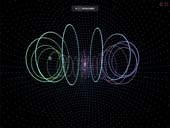
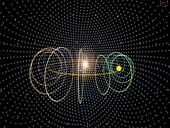
完善15号动态效果

diff --git a/js/e15.js b/js/e15.js
@@ -8,10 +8,12 @@ define(['analyser', 'util', 'renderer'], function (analyser, util, renderer) {
         centerParticles, centerGeometry, centerMaterial,
         littleParticles, littleGeometry, littleMaterial,
         outerParticles, outerGeometry, outerMaterial,
+        spotLight,lensFlare2,
+        textureFlare0 ,textureFlare3,flareColor,
         camera_a, camera_r, camera_d, camera_h, camera_f,
         i, h, sprite,
         rr = 600, r = 100,
-        cr = 200, lr = 20, oradius = 1000,
+        cr = 300, lr = 30, oradius = 1000,
         count = 1000, lcount = 500, ocount = 3000,
         langle = 0, lh = 0,
         data, len=20, total, avg,
@@ -40,7 +42,7 @@ define(['analyser', 'util', 'renderer'], function (analyser, util, renderer) {
         camera_a += avg * 0.00005;
         camera_a %= twoPI;
 
-        langle += avg * 0.0001;
+        langle += avg * 0.00007;
         langle %= twoPI;
 
         if (camera_d == camera_r)
@@ -71,7 +73,7 @@ define(['analyser', 'util', 'renderer'], function (analyser, util, renderer) {
             scene.remove(cubes[i]);
             geometries[i].dispose();
             materials[i].dispose();
-            geometry = new THREE.TorusGeometry(r + 0.8 * data[i * 5], 2, 4, 30, 2 * Math.PI);
+            geometry = new THREE.TorusGeometry(r + 0.8 * data[i * 5], 2, 4, 40, twoPI);
             material = new THREE.MeshBasicMaterial();
             material.color.setHSL(h + i / 20, 1.0, 0.8);
             cube = new THREE.Mesh(geometry, material);
@@ -83,10 +85,11 @@ define(['analyser', 'util', 'renderer'], function (analyser, util, renderer) {
             cube.rotation.set(Math.PI / 2, ang, 0);
         }
 
-        centerMaterial.color.setHSL(h, 1.0, 0.8);
+        centerMaterial.color.setHSL(h, 1.0, 1.0);
 
-        for (var vertex of centerGeometry.vertices) {
-            var t = vertex.postiondata[0];
+        for (i=0;i<centerGeometry.vertices.length;i++) {
+            var vertex = centerGeometry.vertices[i],
+                t = vertex.postiondata[0];
             if (t < cr)
                 t++;
             else
@@ -98,26 +101,31 @@ define(['analyser', 'util', 'renderer'], function (analyser, util, renderer) {
             vertex.postiondata[0] = t;
         }
 
-        if (Math.random() > 0.5)
-            lh++;
-        else
-            lh--;
+        lh += avg * 0.0005;
+        lh %= twoPI;
 
-        if (lh > r)
-            lh -= r;
+        var tt =rr+(lr+10)*Math.cos(lh);
 
-        littleParticles.position.set(rr * Math.cos(langle), rr * Math.sin(langle), lh);
+        littleParticles.position.set(tt * Math.cos(langle), tt * Math.sin(langle), (lr+10)*Math.sin(lh));
 
-        littleMaterial.color.setHSL(((h * 360 + 120) % 360) / 360, 1.0, 1.0);
+        littleParticles.rotateX(avg*0.0001);
+        littleParticles.rotateY(avg*0.0001);
+        littleParticles.rotateZ(avg*0.0001);
 
-        for (var vertex of littleGeometry.vertices) {
-            var alpha = Math.PI * 2 * Math.random(),
-                theta = Math.PI * Math.random(),
-                t = lr;
-            vertex.x = Math.sin(theta) * Math.cos(alpha) * t;
-            vertex.y = Math.sin(theta) * Math.sin(alpha) * t;
-            vertex.z = Math.cos(theta) * t;
-        }
+        //littleMaterial.color.setHSL(((h * 360 + 120) % 360) / 360, 1.0, 1.0);
+
+        // 取消空心小球的粒子运动
+        // for (i=0;i < littleGeometry.vertices.length;i++) {
+        //     var vertex = littleGeometry.vertices[i];
+        //     var alpha = Math.PI * 2 * Math.random(),
+        //         theta = Math.PI * Math.random(),
+        //         t = lr;
+        //     vertex.x = Math.sin(theta) * Math.cos(alpha) * t;
+        //     vertex.y = Math.sin(theta) * Math.sin(alpha) * t;
+        //     vertex.z = Math.cos(theta) * t;
+        // }
+
+        //outerMaterial.color.setHSL(((h * 360 + 120) % 360) / 360, 1.0, 1.0);
 
         renderer.render(scene, camera);
     }
@@ -148,11 +156,16 @@ define(['analyser', 'util', 'renderer'], function (analyser, util, renderer) {
         materials = [];
         cubes = [];
 
+
+        textureFlare0 = THREE.ImageUtils.loadTexture("img/lenflare0_alpha.png");
+        textureFlare3 = THREE.ImageUtils.loadTexture("img/lensflare1.png");
+        flareColor = new THREE.Color(0xffffff);
+
         // 绘制圆环
 
         for (i = 0; i < len; i++) {
             var ang = Math.PI * 2 * i / len;
-            geometry = new THREE.TorusGeometry(r, 2, 4, 30, 2 * Math.PI);
+            geometry = new THREE.TorusGeometry(r, 2, 4, 40, twoPI);
             material = new THREE.MeshBasicMaterial({color: 0x00ff00});
             cube = new THREE.Mesh(geometry, material);
             geometries[i] = geometry;
@@ -162,6 +175,17 @@ define(['analyser', 'util', 'renderer'], function (analyser, util, renderer) {
             cube.position.set(rr * Math.cos(ang), rr * Math.sin(ang), 0);
             cube.rotation.set(Math.PI / 2, ang, 0);
         }
+
+        // 中心发光体
+
+        spotLight = new THREE.SpotLight(0xffffff);
+        spotLight.position.set(0, 0, 0);
+        scene.add(spotLight);
+
+        var lensFlare = new THREE.LensFlare(textureFlare0, 350, 0, THREE.AdditiveBlending, flareColor);
+        lensFlare.add(textureFlare3, cr, 0, THREE.AdditiveBlending);
+        lensFlare.position = spotLight.position;
+        scene.add(lensFlare);
 
         //绘制内部“实心”小球
 
@@ -194,43 +218,62 @@ define(['analyser', 'util', 'renderer'], function (analyser, util, renderer) {
 
         // 绘制转动的“空心”小球
 
-        // littleGeometry = new THREE.SphereGeometry(lr,20,20);
-        // littleMaterial = new THREE.MeshBasicMaterial({ color: 0x550000 } );
-        // littleParticles = new THREE.Mesh(littleGeometry, littleMaterial);
-        // scene.add(littleParticles);
+        // 绘制小球的环绕中心
 
+        var torGeometry = new THREE.TorusGeometry(rr,2,4,100,twoPI),
+            torMaterial = new THREE.MeshBasicMaterial({color: 0xffcc00}),
+            torcube =new THREE.Mesh(torGeometry,torMaterial);
+        scene.add(torcube);
 
-        littleGeometry = new THREE.Geometry();
-        littleMaterial = new THREE.PointCloudMaterial({
-            size: 1,
-            sizeAttenuation: false,
-            transparent: true,
-            blending: THREE.AdditiveBlending,
-            depthTest: false,
+        littleGeometry = new THREE.SphereGeometry(lr,20,20);
+        // littleMaterial = new THREE.MeshBasicMaterial({
+        //     color: 0xcc0000,
+        //     depthTest:true
+        // });
+        littleMaterial = new THREE.MeshPhongMaterial({
+            opacity:1,
+            color: 0xff0000,
+            emissive: 0xffff00,
+            side: THREE.FrontSide,
+            shading: THREE.SmoothShading,
+            wireframe:true,
         });
-        littleMaterial.color.setHSL(0.3, 0.9, 0.5);
-        for (i = 0; i < lcount; i++) {
-            var vertex = new THREE.Vector3(),
-                alpha = Math.PI * 2 * Math.random(),
-                theta = Math.PI * Math.random(),
-                k1 = Math.sin(theta) * Math.cos(alpha),
-                k2 = Math.sin(theta) * Math.sin(alpha),
-                k3 = Math.cos(theta);
-            vertex.x = k1 * lr;
-            vertex.y = k2 * lr;
-            vertex.z = k3 * lr;
-            littleGeometry.vertices.push(vertex);
-        }
-        littleParticles = new THREE.PointCloud(littleGeometry, littleMaterial);
-        littleParticles.sortParticles = true;
+        littleParticles = new THREE.Mesh(littleGeometry, littleMaterial);
         scene.add(littleParticles);
+
+        // littleGeometry = new THREE.Geometry();
+        // littleMaterial = new THREE.PointCloudMaterial({
+        //     size: 1,
+        //     sizeAttenuation: false,
+        //     transparent: true,
+        //     blending: THREE.AdditiveBlending,
+        //     depthTest: false,
+        // });
+        // littleMaterial.color.setHSL(0.3, 0.9, 0.5);
+        // for (i = 0; i < lcount; i++) {
+        //     var vertex = new THREE.Vector3(),
+        //         alpha = Math.PI * 2 * Math.random(),
+        //         theta = Math.PI * Math.random(),
+        //         k1 = Math.sin(theta) * Math.cos(alpha),
+        //         k2 = Math.sin(theta) * Math.sin(alpha),
+        //         k3 = Math.cos(theta);
+        //     vertex.x = k1 * lr;
+        //     vertex.y = k2 * lr;
+        //     vertex.z = k3 * lr;
+        //     littleGeometry.vertices.push(vertex);
+        // }
+        // littleParticles = new THREE.PointCloud(littleGeometry, littleMaterial);
+        // littleParticles.sortParticles = true;
+        // scene.add(littleParticles);
 
         // 绘制外围的“空心”大球背景
 
         outerGeometry = new THREE.Geometry();
+        sprite = THREE.ImageUtils.loadTexture( "img/spark1.png" );
         outerMaterial = new THREE.PointCloudMaterial({
-            size: 3,
+            size: 25,
             sizeAttenuation: false,
+            map: sprite,
             transparent: true,
             blending: THREE.AdditiveBlending,
             depthTest: false,
@@ -253,6 +296,7 @@ define(['analyser', 'util', 'renderer'], function (analyser, util, renderer) {
                 vertex.x = k1 * t;
                 vertex.y = k2 * t;
                 vertex.z = k3 ;
+                vertex.z = k3 ;
                 outerGeometry.vertices.push(vertex);
             }
             zangle+=segz;
@@ -261,6 +305,8 @@ define(['analyser', 'util', 'renderer'], function (analyser, util, renderer) {
         outerParticles = new THREE.PointCloud(outerGeometry, outerMaterial);
         outerParticles.sortParticles = true;
         scene.add(outerParticles);
+
+
 
         initOrNot = true;
     }

diff --git a/js/renderer.js b/js/renderer.js
@@ -4,6 +4,7 @@ define(['util'], function (util) {
 var container = util.getById('threed-webgl-renderer'),
     $container = $('#threed-webgl-renderer'),
     renderer = new THREE.WebGLRenderer({
+        antialias: true,
         alpha: true
     });
 
